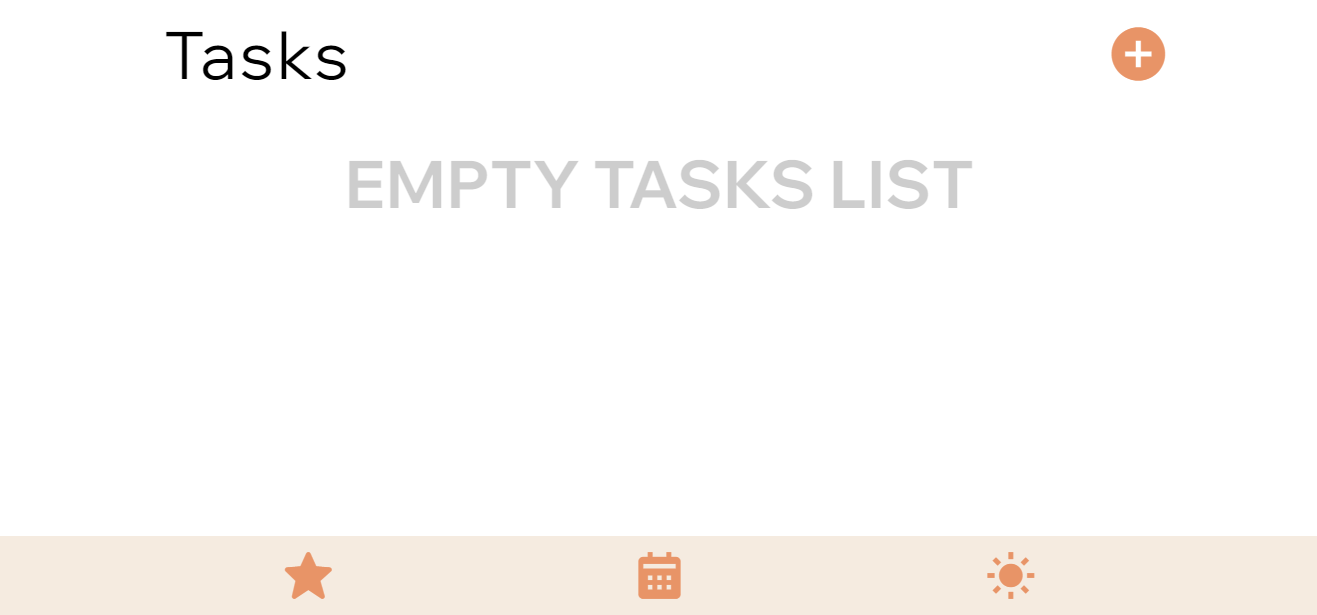
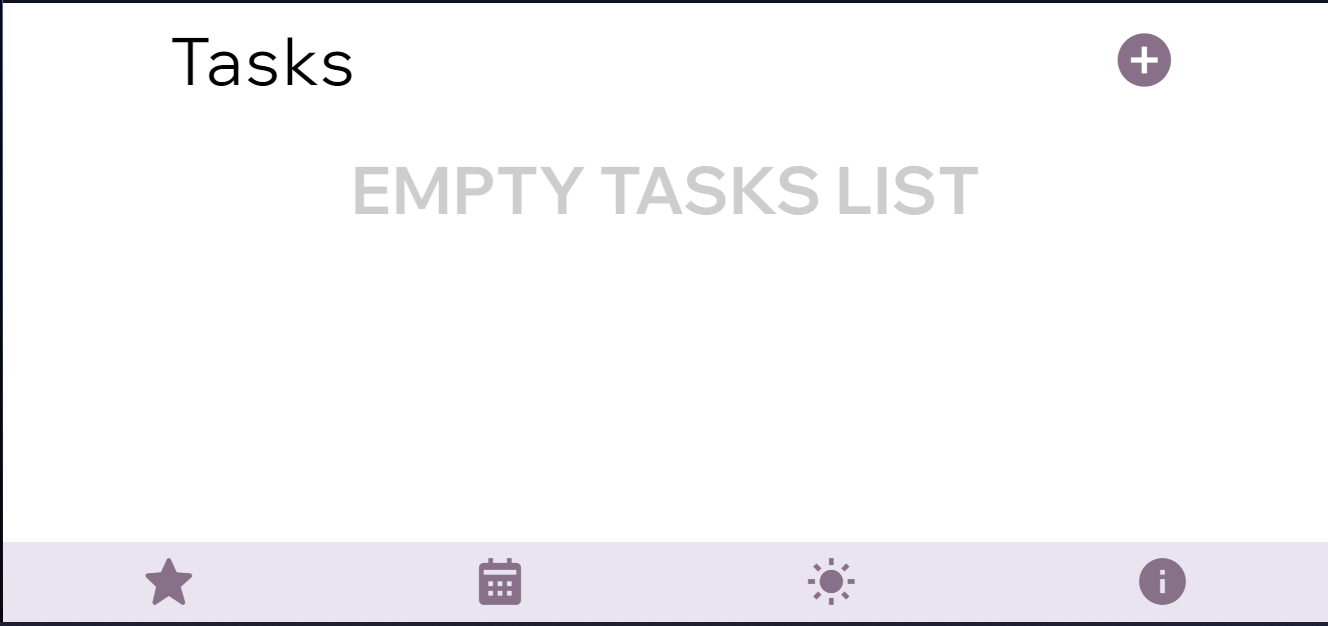
Delete unnecessary commans

diff --git a/JS/functions.js b/JS/functions.js
@@ -1,4 +1,5 @@
 import { cleantForm,success, error } from "./cleanform-alertas.js";
+import { CALENDAR_ID } from "./calendarAPI.js";
 
 export let formEvents = document.getElementById("form-events");
 let events = document.getElementById("events");
@@ -18,7 +19,6 @@ export let createBtn = document.createElement("input");
 export let editEvent = document.createElement("input");
 export let submitContainer = document.querySelector("#form-events .submit-container");
 
-// CREACION DE EVENTOS
 export function cardsEvents(event) {
   for (let i = 0; i < event.length; i++) {
         
@@ -41,7 +41,7 @@ export function cardsEvents(event) {
 
     div.innerHTML = `
         <h3>Title</h3>
-        <p>${event[i].summary}</p>
+        <p>${event[i].summary ? event[i].summary : "<p>---</p>"}</p>
         <h3>Location</h3>
         <p>${event[i].location ? event[i].location : "<p>---</p>"}</p>
         <h3>Date</h3>
@@ -58,7 +58,7 @@ export function cardsEvents(event) {
   }
   currentEvent = event;
 }
-// GET INVETES
+
 export function getInveted(attendees) {
   let invetedArr = inveted.value.split(",");
   if (invetedArr !== "") {
@@ -71,14 +71,14 @@ export function getInveted(attendees) {
   }
   return attendees;
 }
-//CREAR NUEVOS EVENTOS
+
 export function createEvent() {
   let attendees = [];
   createBtn.addEventListener("click",(e)=>{
     e.preventDefault();
     e.stopImmediatePropagation();
     return gapi.client.calendar.events.insert({
-      'calendarId': 'primary',
+      'calendarId': `${CALENDAR_ID}`,
       'summary': summary.value,
       'location': place.value,
       'description': description.value,
@@ -107,7 +107,7 @@ export function createEvent() {
           function(err) { error(err) });
   });
 }
-// EDIT BTN
+
 export function editBtn(){
   let editBtn = document.createElement('i');
   editBtn.classList.add("bx");
@@ -128,7 +128,7 @@ export function editBtn(){
   return editBtn;
 }
 
-// OBTENER DATOS PARA EL FORM
+
 export function getDatasForm(currentId) {
   let summaryValue,locationValue,descriptionValue,startValue,endValue,invetedValue;
 
@@ -156,7 +156,7 @@ export function getDatasForm(currentId) {
   endDateUpdate = endValue;
   updateEvent();
 }
-// UPDATE DATA DESDE EL FORM
+
 export function updateEvent() {
   let attendees = [];
   editEvent.addEventListener("click",(e)=>{
@@ -164,7 +164,7 @@ export function updateEvent() {
     e.preventDefault();
     let currentId = currentEventId;
     return gapi.client.calendar.events.update({
-      "calendarId": "primary",
+      "calendarId": `${CALENDAR_ID}`,
       "eventId": `${currentId}`,
       "alwaysIncludeEmail": true,
       "sendNotifications": true,
@@ -200,7 +200,6 @@ export function updateEvent() {
   })
 }
 
-// DELETE BTN
 export function deleteBtn(){
   let deleteBtn = document.createElement('i');
   deleteBtn.classList.add("bx");
@@ -225,9 +224,10 @@ export function deleteBtn(){
   })
   return deleteBtn;
 }
+
 export function deleteEvents(currentId) {
   return gapi.client.calendar.events.delete({
-    "calendarId": "primary",
+    "calendarId": `${CALENDAR_ID}`,
     "eventId": `${currentId}`
   })
       .then(function(response) {

diff --git a/JS/calendarAPI.js b/JS/calendarAPI.js
@@ -1,7 +1,7 @@
-import { cardsEvents,createEvent,editBtn,deleteBtn,formEvents,createBtn,editEvent,submitContainer} from "./functions.js"
+import { cardsEvents,createEvent,formEvents,createBtn,editEvent,submitContainer} from "./functions.js"
 import { cleantForm} from "./cleanform-alertas.js"
 
-const CALENDAR_ID = 'primary';
+export const CALENDAR_ID = 'primary';
 const API_KEY = 'AIzaSyCSnNDQ8GMjmwRit7DWOQVAbvVTvnITaUY';
 const CLIENT_ID = '273520073899-hk28up4luntj9v55qhq4lo8eni2efm78.apps.googleusercontent.com';
 const DISCOVERY_DOC = 'https://www.googleapis.com/discovery/v1/apis/calendar/v3/rest';
@@ -19,8 +19,8 @@ let tokenClient;
 let gapiInited = false;
 let gisInited = false;
 
-authorize_button.style.display= 'hidden';
-signout_button.style.display= 'hidden';
+authorize_button.style.visibility= 'hidden';
+signout_button.style.display= 'none';
 
 
 function gapiLoaded() {
@@ -39,16 +39,16 @@ function gisLoaded() {
     tokenClient = google.accounts.oauth2.initTokenClient({
       client_id: CLIENT_ID,
       scope: SCOPES,
-      callback: '', // defined later
+      prompt: 'consent',
+      callback: '',
     });
     gisInited = true;
     maybeEnableButtons();
 }
 
 document.addEventListener('DOMContentLoaded', () =>{
-  gapiLoaded()
-  gisLoaded()
-  
+  gapiLoaded();
+  gisLoaded();
 })
 authorize_button.addEventListener('click',(e) => {
   e.stopPropagation();
@@ -58,25 +58,29 @@ signout_button.addEventListener('click',(e) =>{
   e.stopPropagation();
   handleSignoutClick();
 })
+
 function maybeEnableButtons() {
     if (gapiInited && gisInited) {
       authorize_button.style.visibility= 'visible';
     }
 }
-// Sign in the user upon button click.
+
 function handleAuthClick() {
     tokenClient.callback = async (resp) => {
     if (resp.error !== undefined) {
     throw (resp);
     }
     signout_button.style.display= 'block';
+    
     authorize_button.innerText = 'Refresh';
-    await listUpcomingEvents(); //Funcion para listar y crear eventos
-    addEventBtn.style.display = "block";
     emptyEventsList.style.display = "none";
-    // RE-ESTABLECIENDO AL DISEÑO ORIGINAL
+    await listUpcomingEvents();
+    addEventBtn.style.display = "block";
+
     signout_button.style.fontFamily = "Wix Madefor Display";
     authorize_button.style.fontFamily = "Wix Madefor Display";
+    signout_button.style.backgroundColor = "var(--purple-white)";
+    authorize_button.style.backgroundColor = "var(--purple-white)";
   };
   
   if (gapi.client.getToken() === null) {
@@ -122,12 +126,14 @@ async function listUpcomingEvents() {
       return;
     }
     const events = response.result.items;
+
     if (!events || events.length == 0) {
-      document.getElementById('content').innerText = 'No events found.';
+      emptyEventsList.style.display = "block";
       return;
     }
     cardsEvents(events)
   }
+
   closeBtn.addEventListener("click",()=>{
     formEvents.classList.remove("visible");
     cleantForm();

diff --git a/JS/main.js b/JS/main.js
@@ -62,14 +62,14 @@ function deleteBtn(){
               let tasks = JSON.parse(localStorage.getItem("listTask"));
               let taskTitle = item.children[0].childNodes[1].innerHTML
               
-              // Eliminar elementos del storage
+              // Delete elements from storage
               for (let i = 0; i < tasks.length; i++) {
                 if (taskTitle === tasks[i].title) {
                     tasks.splice(i,1);
                     localStorage.setItem("listTask",JSON.stringify(tasks));
                   }
               }
-              // Eliminar elementos del array principal
+              // Delete elements from principal array
               for (let e = 0; e < listTask.length; e++) {
                 if (listTask[e].title === taskTitle) {
                   listTask.splice(e,1);
@@ -127,7 +127,7 @@ function getStorageTask(){
     });
   }
 }
-// TASK INTERACTIVIDAD
+
 let addBtn = document.querySelector(".bxs-plus-circle");
 let closeBtn = document.querySelector(".bxs-x-circle");
 
@@ -138,10 +138,10 @@ closeBtn.addEventListener("click",()=>{
   formTasks.classList.remove("visible");
   formEvents.classList.remove("visible");
 });
-// MENU PAGINACION
+
 let home = document.querySelector(".bxs-star");
 let calendar = document.querySelector(".bxs-calendar");
-let weather = document.querySelector(".bxs-sun");
+let weather = document.querySelector(".bxs-cloud-rain");
 
 let sectionTask = document.getElementById("task");
 let sectionSchedule = document.getElementById("scheduler");
@@ -167,8 +167,8 @@ weather.addEventListener("click",()=>{
 
 function removeDuplicates(arr1,arr2,newList){
   newList = arr1.concat(arr2)
-  for(var i=0; i< newList.length; ++i) {
-      for(var j=i+1; j<newList.length; ++j) {
+  for(let i= 0; i < newList.length; ++i) {
+      for(let j= i+1; j <newList.length; ++j) {
           if(newList[i].title === newList[j].title) {
               newList.splice(j, 1);
           }

diff --git a/JS/weather.js b/JS/weather.js
@@ -7,7 +7,7 @@ let temp= document.getElementById("temp");
 let humd= document.getElementById("humd");
 let wind= document.getElementById("wind");
 
-let weekDay = {
+let weekDayArr = {
     0:'Sunday',
     1:'Monday',
     2:'Tuesday',
@@ -51,8 +51,8 @@ function fetchDataFiveDays(position){
 }
 function createCardCurrentTime(weather) {
     let currentDay = new Date();
-    let weekday = currentDay.getDay();
-    let completeDate = `${weekDay[weekday]} ${currentDay.getDate()} • ${currentDay.getMonth()+1} • ${currentDay.getFullYear()}`;
+    let weekDay = currentDay.getDay();
+    let completeDate = `${weekDayArr[weekDay]} ${currentDay.getDate()} • ${currentDay.getMonth()+1} • ${currentDay.getFullYear()}`;
     day.textContent = completeDate;
 
     ubication.textContent = weather.name
@@ -72,10 +72,10 @@ function createFiveDaysWeather(weather) {
 
     for (let i = 0; i <= weather.list.length; i+=8) {
         let date = new Date(weather.list[i].dt_txt);
-        let weekday = date.getDay();
+        let weekDay = date.getDay();
         
         lis[count].innerHTML = `
-            <h2>${weekDayShort[weekday]}</h2>
+            <h2>${weekDayShort[weekDay]}</h2>
             <p>${Math.round(weather.list[i].main.temp)}°C</p>
             <img src="https://openweathermap.org/img/wn/${weather.list[i].weather[0].icon}@4x.png" alt="weather ${weather.list[i].weather[0].main}">
             <p class="weather-time">${weather.list[i].weather[0].main}</p>
@@ -102,10 +102,10 @@ export function funcionInit() {
 	}
 
 	const opcionesDeSolicitud = {
-		enableHighAccuracy: true, // Alta precisión
-        maximumAge: 0 // No queremos caché
+		enableHighAccuracy: true, // Hight presitionn
+        maximumAge: 0 // No cache
 	};
-	// Solicitar
+
 	navigator.geolocation.getCurrentPosition(onUbicacionConcedida, onErrorDeUbicacion, opcionesDeSolicitud);
 
 };

diff --git a/index.html b/index.html
@@ -18,10 +18,11 @@
         <ul>
             <li><i class='bx bxs-star' title="To-Do list"></i></li>
             <li><i class='bx bxs-calendar' title="Calendar"></i></li>
-            <li><i class='bx bxs-sun' title="Weather"></i></li>
+            <li><i class='bx bxs-cloud-rain' title="Weather"></i></li>
             <li><a href="https://privacy-policy-hazel.vercel.app/" target="_blank"><i class='bx bxs-info-circle' title="Privacy Policy"></i></a></li>
         </ul>
     </nav>
+    
     <section id="task">
         <div class="container-task-plus">
             <h1>Tasks</h1><i class='bx bxs-plus-circle' title="Add task"></i>
@@ -115,9 +116,9 @@
 
     <script async defer src="https://apis.google.com/js/api.js"></script>
     <script async defer src="https://accounts.google.com/gsi/client"></script>
-    <!-- Libreria para Alertas -->
+    <!-- ALERT LIBRARY -->
     <script src="https://cdn.jsdelivr.net/npm/sweetalert2@11"></script>
-    <!-- Google verificacion -->
+    <!-- GOOGLE VERIFICATION -->
     <a href="googlef1c64bafad55f6ed.html"></a>
 </body>
 </html>

diff --git a/CSS/media700px.css b/CSS/media700px.css
@@ -54,7 +54,7 @@
     #form-events{
         display: flex;
     }
-    /*CALENDAR*/
+
     #calendar{
         width: 60%;
     }
@@ -68,7 +68,7 @@
         width: 40%;
         padding: 15px;
     }
-    /* WEATHER */
+
     .current-weather-info{
         width: 55%;
     }

diff --git a/CSS/generalStyles.css b/CSS/generalStyles.css
@@ -2,7 +2,6 @@ section{
     width: 100%;
     height: auto;
 }
-/* ESTILOS GENERALES*/
     h1,.schedule-title, .weather-design h3{
         letter-spacing: 3px;
     }

diff --git a/CSS/schedule.css b/CSS/schedule.css
@@ -1,4 +1,3 @@
-/* CALENDAR: CARD EVENTOS Y CALENDARIO*/
 #calendar{
     width: 100%;
     height: auto;

diff --git a/CSS/weather.css b/CSS/weather.css
@@ -1,4 +1,3 @@
-/* WEATHER: CARDS WEATHER */
 .weather-title{
     width: 100%;
     height: auto;

diff --git a/CSS/menu-task.css b/CSS/menu-task.css
@@ -1,4 +1,3 @@
-/*  INICIO: TASKS, FORM, BTNS */
 .menu{
     width: 100%;
     height: auto;
